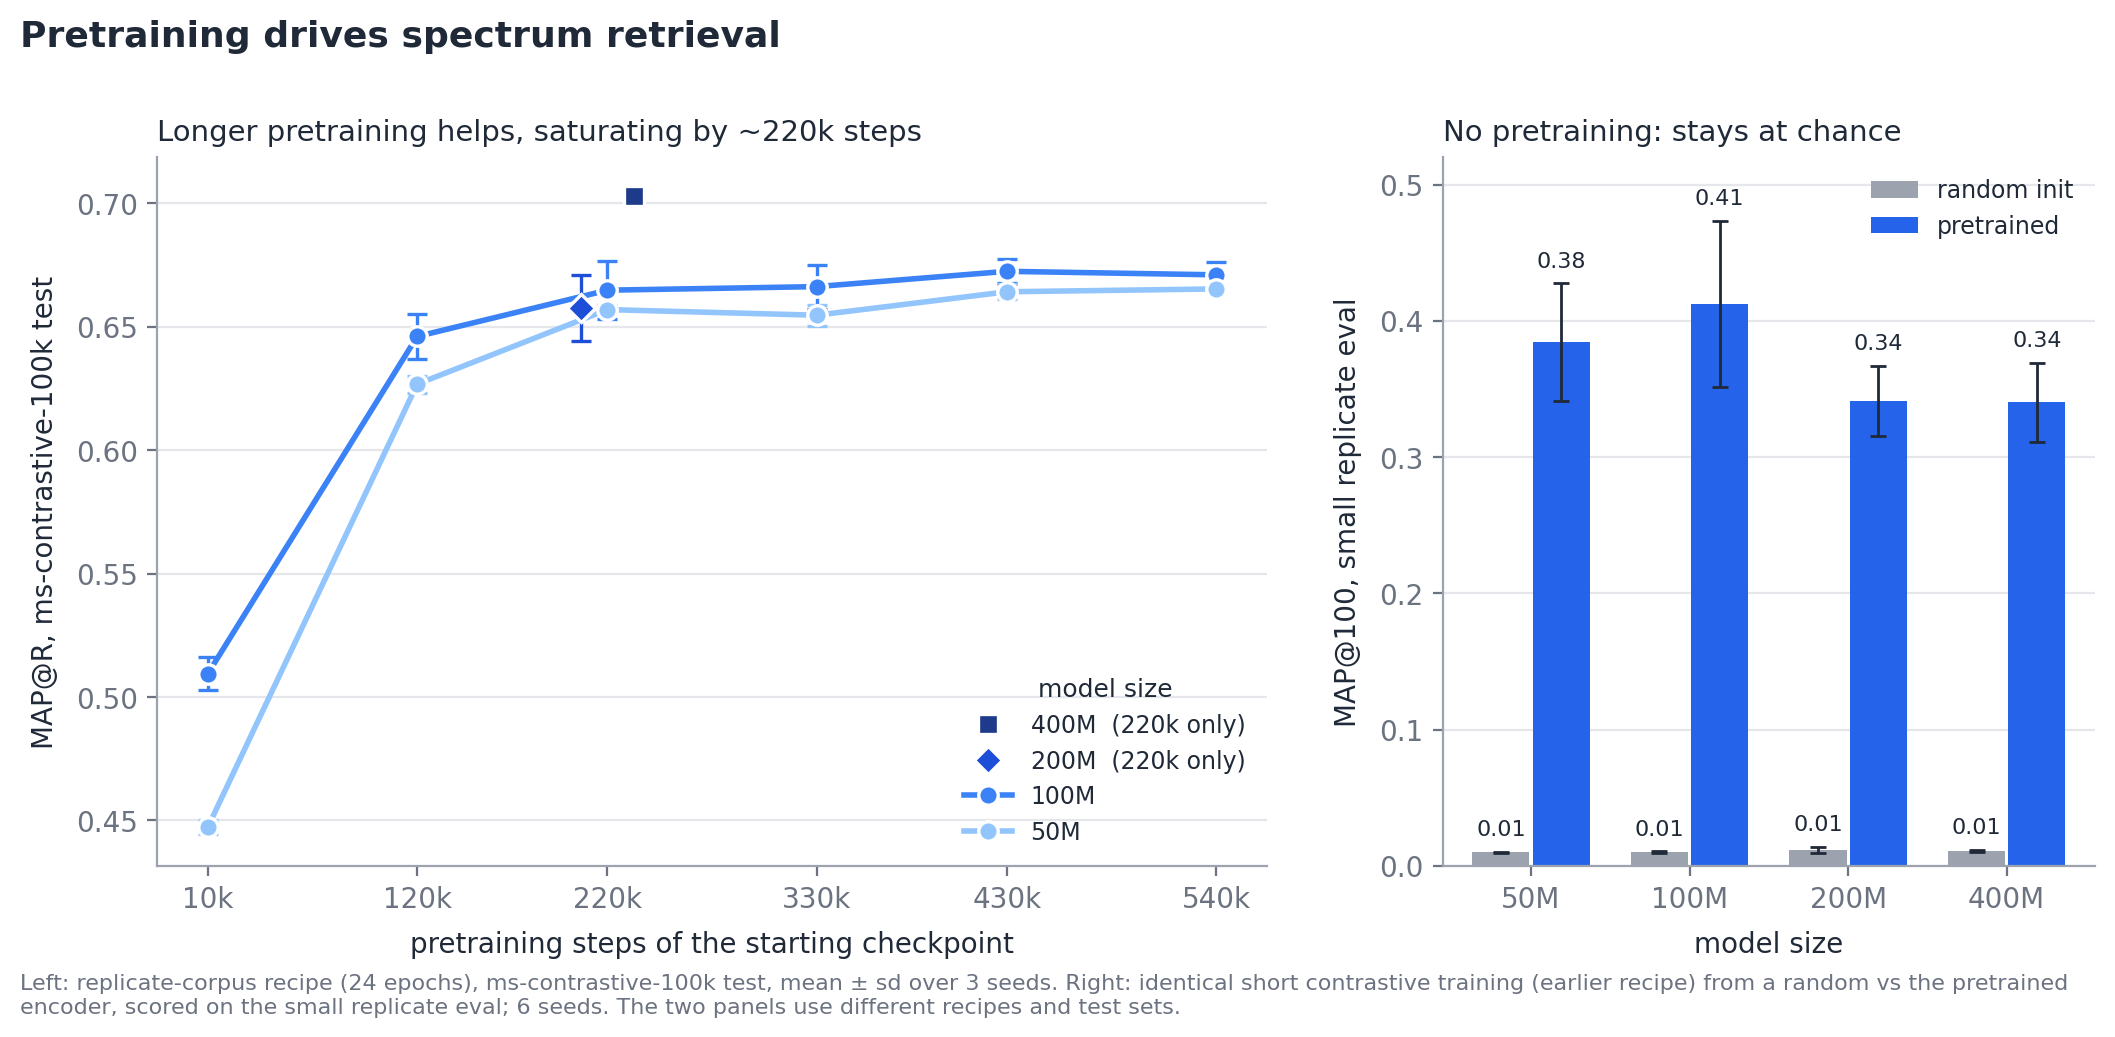
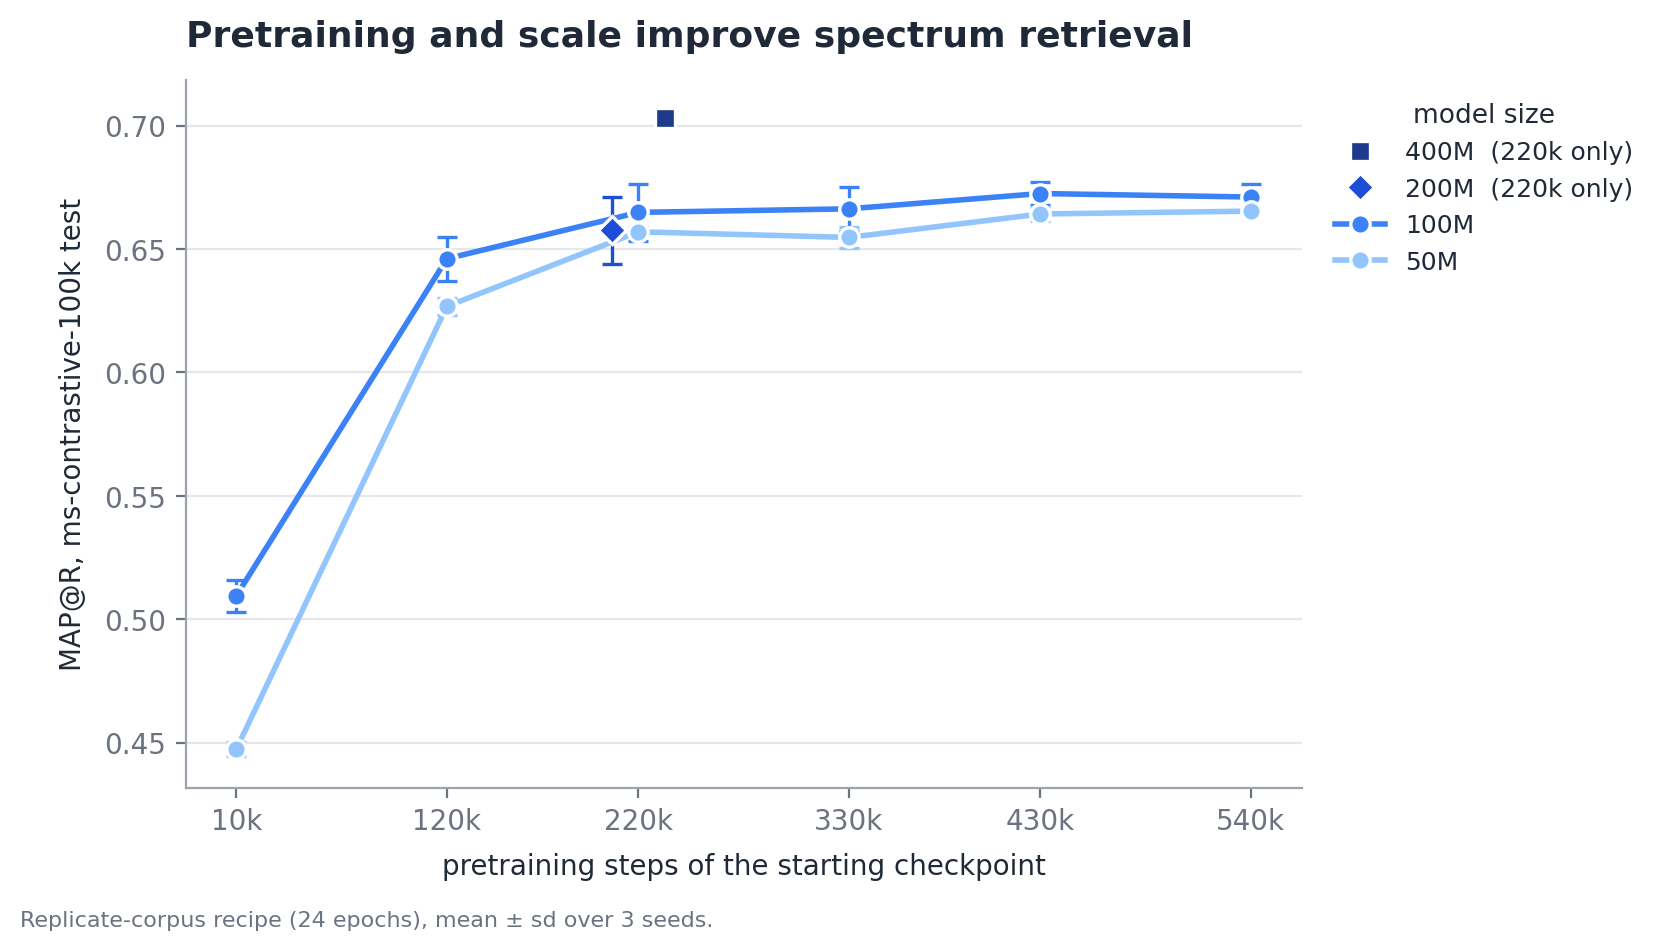
C_pretraining_scaling back to one panel; ablation stays separate (different recipe/eval); drop inaccurate footnote claim
Claude-Session: https://claude.ai/code/session_01ATgkXx1oRRqvzB3G8wYeta

diff --git a/sweeps/package_contrastive.py b/sweeps/package_contrastive.py
@@ -139,12 +139,12 @@ def fig_benchmarks(rows):
         fig.savefig(FIG / "C_benchmarks.png"); plt.close(fig)
 
 
-def fig_pretraining(rows, ab):
+def fig_pretraining(rows):
     b, meth = "ms-contrastive-100k", "replicate corpus only (24 ep, C2/C4)"
     cks = [10, 120, 220, 330, 430, 540]
     cols = {"50m": "#93c5fd", "100m": "#3b82f6", "200m": "#1d4ed8", "400m": "#1e3a8a"}
     with plt.rc_context(STYLE):
-        fig, (ax, ax2) = plt.subplots(1, 2, figsize=(12.5, 4.6), gridspec_kw={"width_ratios": [1.7, 1]})
+        fig, ax = plt.subplots(figsize=(7.2, 4.6))
         ax.yaxis.grid(True, color=GRIDC, lw=0.8); ax.set_axisbelow(True)
         handles = []
         mk = {"50m": "o", "100m": "o", "200m": "D", "400m": "s"}
@@ -160,29 +160,11 @@ def fig_pretraining(rows, ab):
         ax.set_xticks(cks); ax.set_xticklabels([f"{c}k" for c in cks])
         ax.set_xlabel("pretraining steps of the starting checkpoint", labelpad=6)
         ax.set_ylabel("MAP@R, ms-contrastive-100k test", labelpad=6)
-        ax.set_title("Longer pretraining helps, saturating by ~220k steps", loc="left", fontsize=10.5)
-        ax.legend(handles=handles, title="model size", frameon=False, fontsize=8.5, title_fontsize=9,
-                  loc="lower right")
-        # right: the same contrastive training from a random vs the pretrained encoder (C3)
-        ax2.yaxis.grid(True, color=GRIDC, lw=0.8); ax2.set_axisbelow(True)
-        scales = ["50m", "100m", "200m", "400m"]; x = np.arange(4)
-        for k, (kind, col) in enumerate((("random init", BINNED), ("pretrained", OURS))):
-            vals = [[r["map_at_100"] for r in ab if r["init"] == kind and r["scale"] == sc] for sc in scales]
-            m = [np.mean(v) for v in vals]; e = [np.std(v, ddof=1) for v in vals]
-            xx = x + (k - 0.5) * 0.38
-            ax2.bar(xx, m, 0.36, yerr=e, capsize=3, color=col, label=kind, zorder=2,
-                    error_kw=dict(elinewidth=1, capthick=1, ecolor=INK))
-            for xi, mi, ei in zip(xx, m, e):
-                ax2.text(xi, mi + ei + 0.012, f"{mi:.2f}", ha="center", fontsize=8)
-        ax2.set_xticks(x); ax2.set_xticklabels([sc.upper() for sc in scales]); ax2.set_xlabel("model size", labelpad=6)
-        ax2.set_ylabel("MAP@100, small replicate eval", labelpad=6); ax2.set_ylim(0, 0.52)
-        ax2.set_title("No pretraining: stays at chance", loc="left", fontsize=10.5)
-        ax2.legend(frameon=False, fontsize=8.5, loc="upper right")
-        fig.suptitle("Pretraining drives spectrum retrieval", x=0.07, ha="left", fontsize=13,
-                     fontweight="bold", y=1.03)
-        fig.text(0.07, -0.05, "Left: replicate-corpus recipe (24 epochs), ms-contrastive-100k test, mean ± sd over 3 seeds. "
-                 "Right: identical short contrastive training (earlier recipe) from a random vs the pretrained\nencoder, "
-                 "scored on the small replicate eval; 6 seeds. The two panels use different recipes and test sets.",
+        ax.set_title("Pretraining and scale improve spectrum retrieval", loc="left", fontsize=13,
+                     fontweight="bold", pad=12)
+        ax.legend(handles=handles, title="model size", frameon=False, fontsize=9, title_fontsize=9.5,
+                  loc="upper left", bbox_to_anchor=(1.01, 1.0))
+        fig.text(0.01, -0.04, "Replicate-corpus recipe (24 epochs), mean ± sd over 3 seeds.",
                  fontsize=8, color=MUTED)
         fig.savefig(FIG / "C_pretraining_scaling.png"); plt.close(fig)
 
@@ -355,7 +337,7 @@ def main():
         for r in ab:
             w.writerow({k: (f"{v:.5f}" if isinstance(v, float) else v) for k, v in r.items()})
     print("ablation rows", len(ab))
-    fig_benchmarks(rows); fig_pretraining(rows, ab); fig_zeroshot(zs); fig_transfer(rows, zs); fig_ablation(ab)
+    fig_benchmarks(rows); fig_pretraining(rows); fig_zeroshot(zs); fig_transfer(rows, zs); fig_ablation(ab)
     fig_transfer(rows, zs, panels=[("ms-contrastive-100k", "ms-contrastive-100k test\n(in-distribution)", 1),
                                    ("yeast-20k", "yeast 20k subset\n(unseen)", 1)],
                  baselines=False, out="C_transfer_ours.png", title="Our models in-distribution vs unseen")
